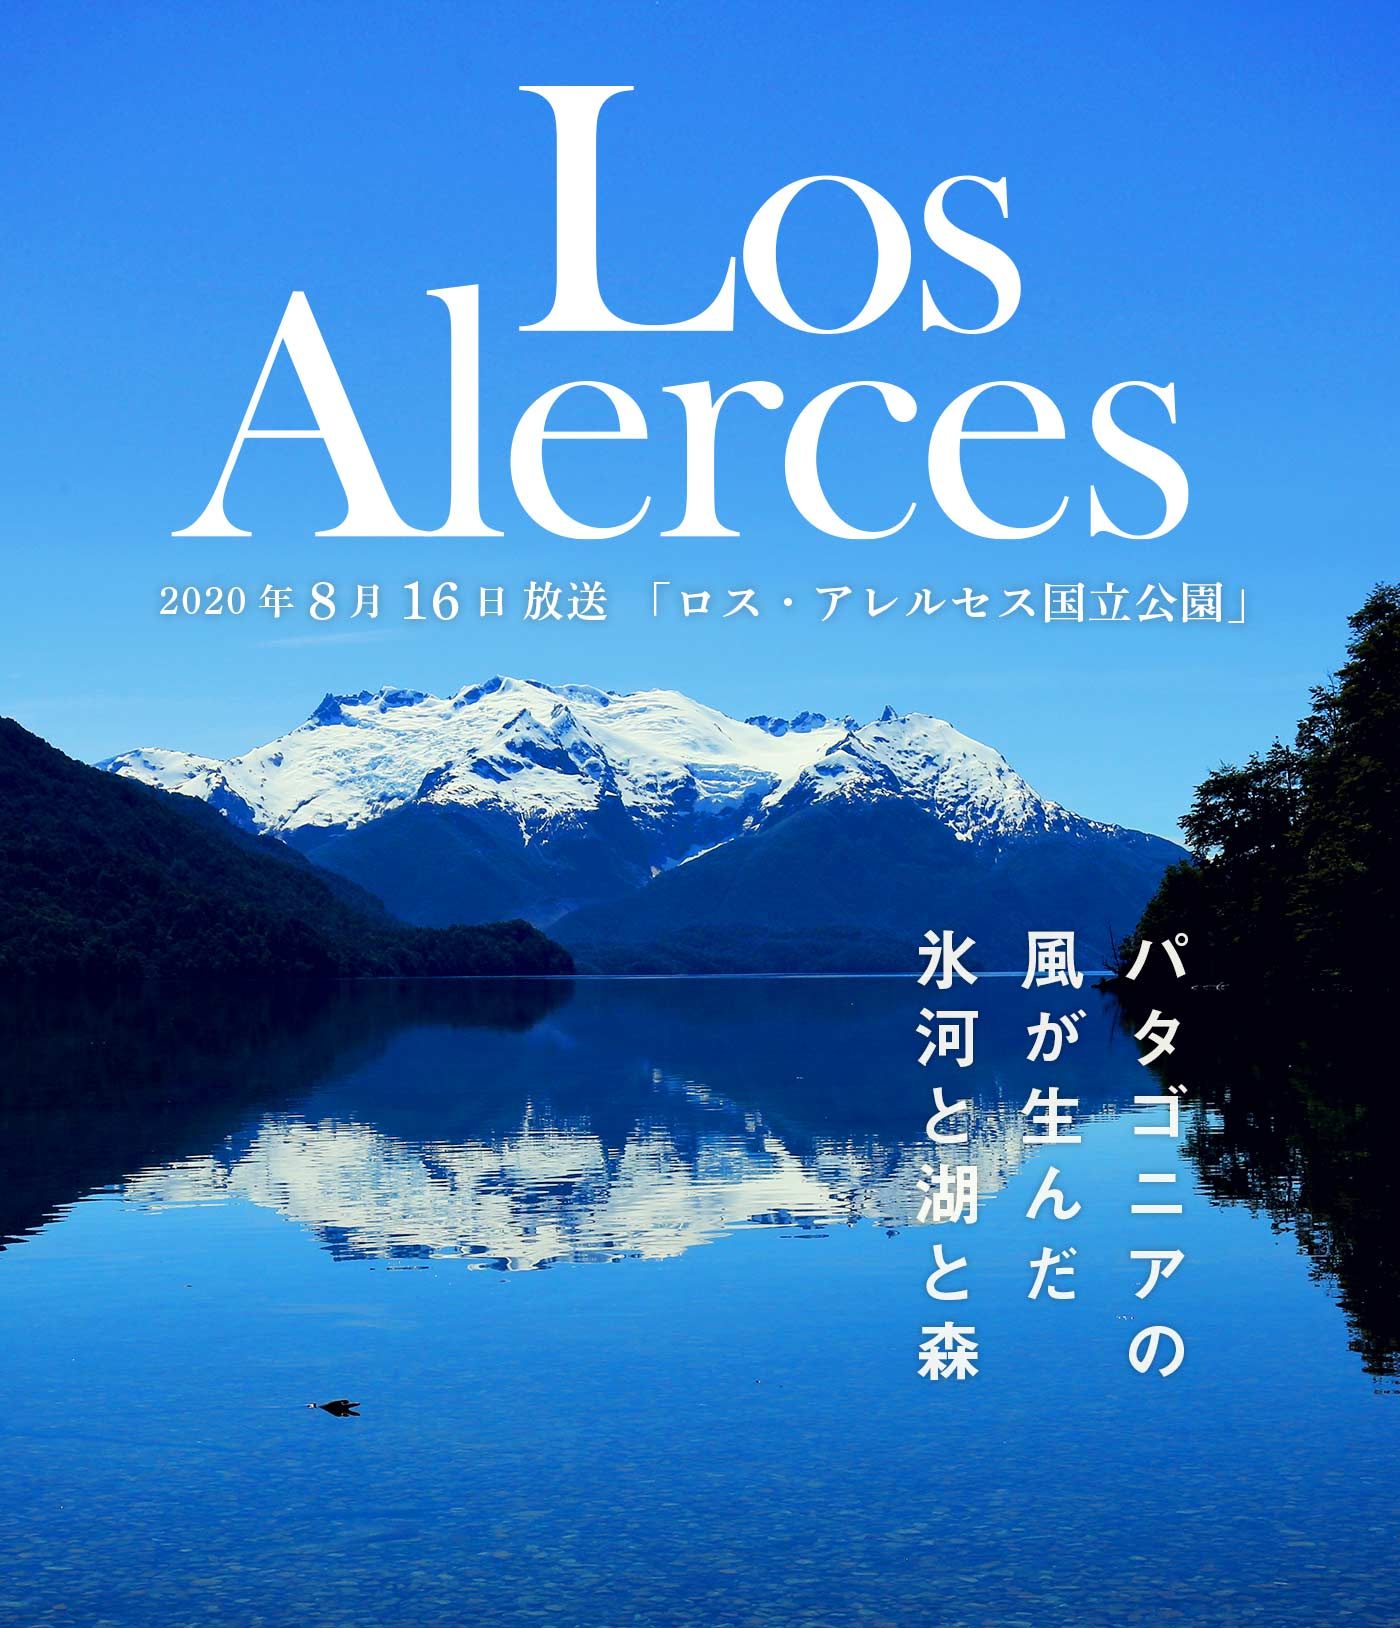
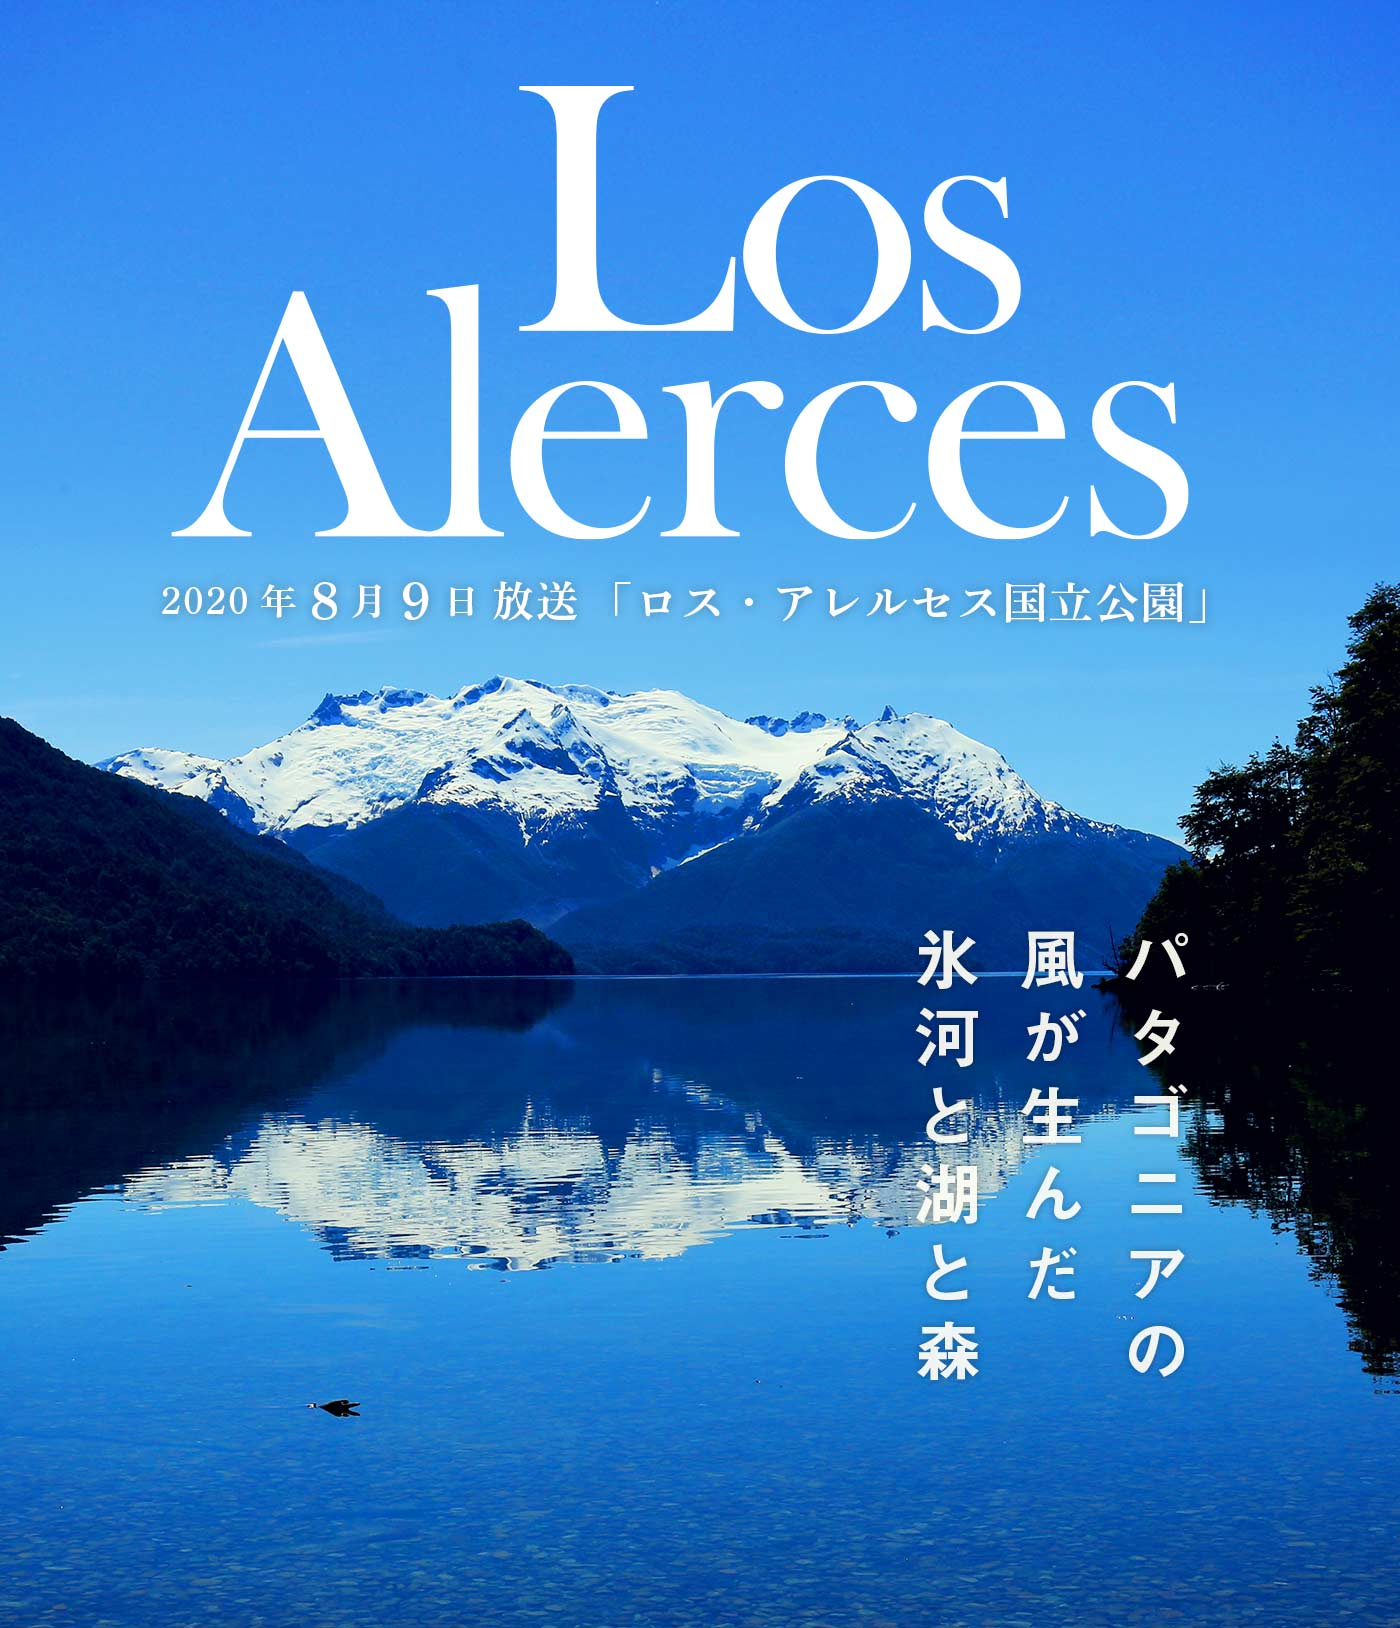
[update2008] done

Changed region(s): [[0.1229, 0.3378, 0.8907, 0.3993]]

diff --git a/feature/2020/202008_01.html b/feature/2020/202008_01.html
@@ -32,7 +32,7 @@
 <!-- ▼ Contents Area -->
 <div id="featureWrapper">
 	<div class="mainCoverArea2008">
-		<h2 class="featureAlt">2020年8月16日放送「ロス・アレルセス国立公園」</h2>
+		<h2 class="featureAlt">2020年8月9日放送「ロス・アレルセス国立公園」</h2>
 	    <img src="../../img/feature/2020/2008/headerimage_dammy.gif" onContextmenu="return false" alt="" class="feature_dammy"/>
 	    <h3 class="featureAlt">パタゴニアの風が生んだ氷河と湖と森</h3>
 	    <p class="alt">氷河を抱いた山々、その間にある湖、そして太古の昔に誕生した植物が命をつなぐ原生林。そんな南米アルゼンチンの自然遺産、ロス・アレルセス国立公園を撮影し、数々の絶景をカメラに収めてきた江夏ディレクターに話を伺いました。</p>

diff --git a/feature/2020/202008_02.html b/feature/2020/202008_02.html
@@ -32,7 +32,7 @@
 <!-- ▼ Contents Area -->
 <div id="featureWrapper">
 	<div class="headerImage2008">
-		<h2 class="featureAlt">2020年8月16日放送「ロス・アレルセス国立公園」</h2>
+		<h2 class="featureAlt">2020年8月9日放送「ロス・アレルセス国立公園」</h2>
 	    <img src="../../img/feature/2020/2008/headerimage2_dammy.gif" onContextmenu="return false" alt="" class="feature_dammy" />
 	</div><!-- headerImage2008 -->
 
